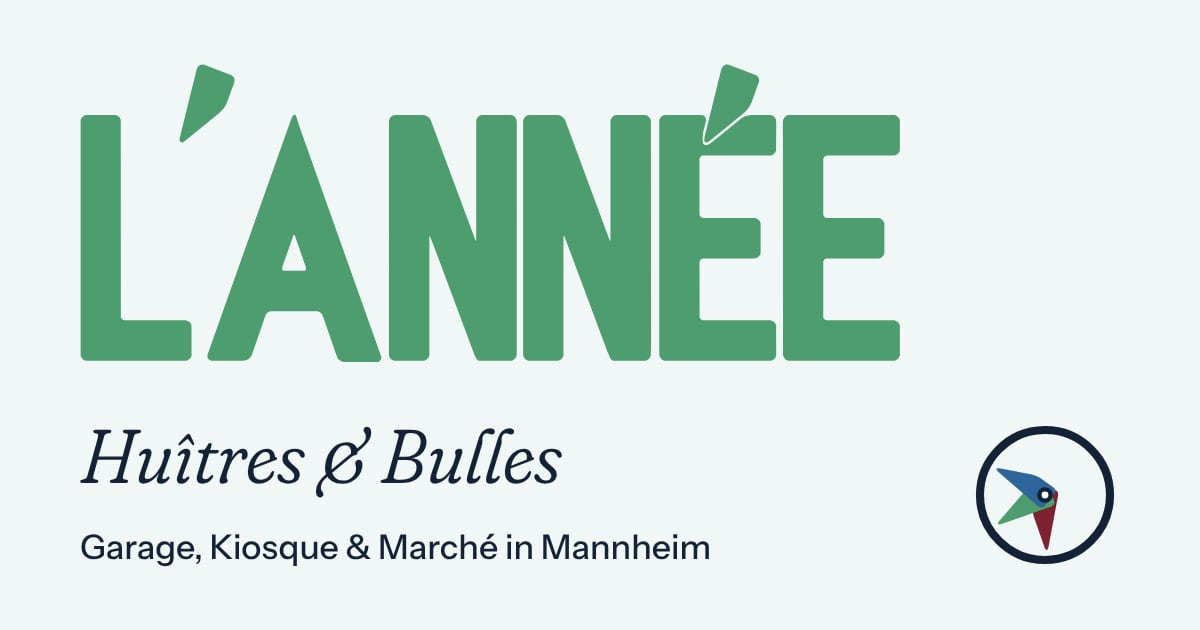
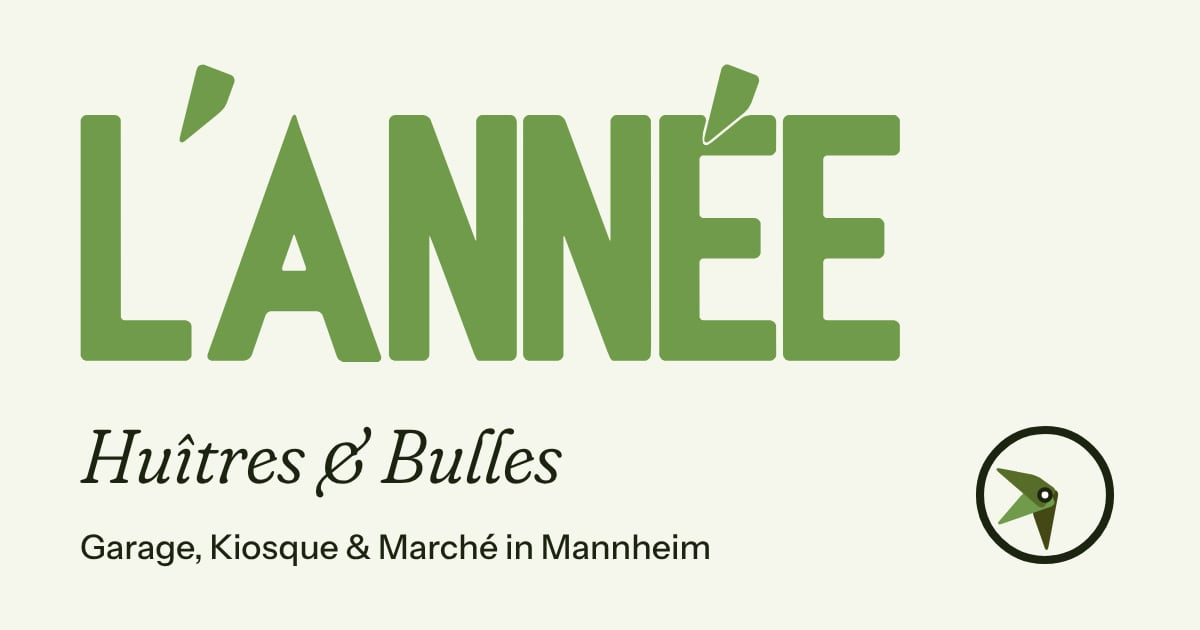
Farben: ganze Palette in warmen Grüntönen
Alle Farben liegen jetzt bei 112–135° in OKLCH (zum Gelb hin); die
Helligkeit folgt weiter dem Tageslicht:
- Vert L’ANNÉE #709B4A (Marché, Morgen; vorher #4D9D6E)
- Vert Mousse #586C2A (Kiosque; vorher Bleu Marée #2E669C)
- Vert Olive #434815 (Garage; vorher Rouge Bordeaux #7D2131)
- Encre #1C2411, Nacre #F6F7EC, Grau und alle Ableitungen warm-grün
- Störer in Chartreuse #CEE65A mit Encre-Schrift (vorher Flamingo-Pink)
- Rahmen der Marché-Tafel in Oliv-Holz

Feste Werte (Linien, Schatten, theme-color, Manifest, Styleguide,
Share-Bilder) lesen die Tokens; Favicons und OG-Bilder neu erzeugt.
Token-Namen vert/bleu/vin bleiben (= Marché/Kiosque/Garage).

Claude-Session: https://claude.ai/code/session_0135uWaH4X56ZFqAbiL8nroe

diff --git a/src/styles/04-layout.css b/src/styles/04-layout.css
@@ -334,13 +334,14 @@
 
 /* Störer: Hinweis, dass die Seite fiktiv ist (SITE.demoNotice) --------------- */
 /*
- * Flamingo-Pink #F06292: Weiß darauf 3,1 : 1, deshalb fette, schmale Schrift.
+ * Chartreuse #CEE65A (warmes Gelbgrün, heller als alle Markenfarben, damit der
+ * Hinweis heraussticht): Encre darauf 11,5 : 1, fette, schmale Schrift.
  * Fixiert unten rechts, wandert also beim Scrollen mit. Der Schatten liegt als
  * eigene, unscharfe Scheibe darunter; beim Schweben hebt sich die Scheibe,
  * der Schatten wird kleiner und heller (nur transform/opacity).
  */
 .stoerer {
-  --flamingo: #f06292;
+  --stoerer: #cee65a;
   --size: clamp(5.25rem, 4.1rem + 4.6vw, 9.5rem);
   position: fixed;
   right: max(var(--gutter), env(safe-area-inset-right));
@@ -355,7 +356,7 @@
   position: absolute;
   inset: 8%;
   border-radius: 50%;
-  background: rgb(20 34 55 / 0.34);
+  background: color-mix(in srgb, var(--encre) 34%, transparent);
   filter: blur(calc(var(--size) * 0.07));
   translate: 0 10%;
 }
@@ -368,8 +369,8 @@
   margin: 0;
   padding: 0 13%;
   border-radius: 50%;
-  background: radial-gradient(circle at 32% 28%, color-mix(in oklab, var(--flamingo) 82%, white), var(--flamingo) 58%);
-  color: #fff;
+  background: radial-gradient(circle at 32% 28%, color-mix(in oklab, var(--stoerer) 72%, white), var(--stoerer) 58%);
+  color: var(--encre);
   font-family: var(--font-text);
   font-stretch: 80%;
   font-weight: 650;
@@ -377,7 +378,7 @@
   line-height: 1.12;
   text-align: center;
   text-wrap: balance;
-  text-shadow: 0 1px 1px rgb(120 20 60 / 0.25);
+  text-shadow: 0 1px 0 rgb(255 255 255 / 0.35);
   rotate: -9deg;
 }
 @media (prefers-reduced-motion: no-preference) {

diff --git a/src/styles/02-base.css b/src/styles/02-base.css
@@ -6,8 +6,8 @@
   --font-display: 'Fraunces', 'Iowan Old Style', 'Palatino Linotype', Palatino, Georgia, serif;
   --font-text: 'Instrument Sans', ui-sans-serif, system-ui, -apple-system, 'Segoe UI', Roboto, sans-serif;
   --phi: 1.618;
-  --line: rgb(20 34 55 / 0.14);
-  --line-strong: rgb(20 34 55 / 0.32);
+  --line: color-mix(in srgb, var(--encre) 14%, transparent);
+  --line-strong: color-mix(in srgb, var(--encre) 32%, transparent);
   --header-h: 4.5rem;
   --ease-out: cubic-bezier(0.16, 1, 0.3, 1);
   --ease-in-out: cubic-bezier(0.7, 0, 0.2, 1);

diff --git a/src/styles/05-pages.css b/src/styles/05-pages.css
@@ -820,7 +820,7 @@
 }
 .loc-menu--board .dishes {
   padding: var(--space-m) clamp(1rem, 3vw, 2.4rem);
-  border: 10px solid #b9824f;
+  border: 10px solid #757944; /* Rahmen in Oliv-Holz */
   border-radius: 6px;
   background: var(--blanc);
   box-shadow: 0 1px 0 rgb(0 0 0 / 0.05);

diff --git a/CLAUDE.md b/CLAUDE.md
@@ -13,7 +13,7 @@ Website der Dachmarke L’ANNÉE (Huîtres & Bulles, Mannheim) mit Garage, Kiosq
 
 ## Wo was liegt
 
-- Stammdaten, Öffnungszeiten, Pausen, Marché-Termine: `src/content/site.mjs` (dort auch `SITE.demoNotice` für den rosa Störer)
+- Stammdaten, Öffnungszeiten, Pausen, Marché-Termine: `src/content/site.mjs` (dort auch `SITE.demoNotice` für den Störer)
 - Karte: `src/content/menu.mjs` · Jahreskalender: `src/content/year.mjs` · Rechtstexte: `src/content/legal.mjs`
 - Austernatlas nach der Fußzeile: Texte `src/content/oysters.mjs`, Strichzeichnungen (prozedural, ins Sprite) `src/lib/oyster-art.mjs`
 - Farben, Typo-Skala (Goldener Schnitt, `clamp()`), Breakpoints: `src/content/tokens.mjs`
